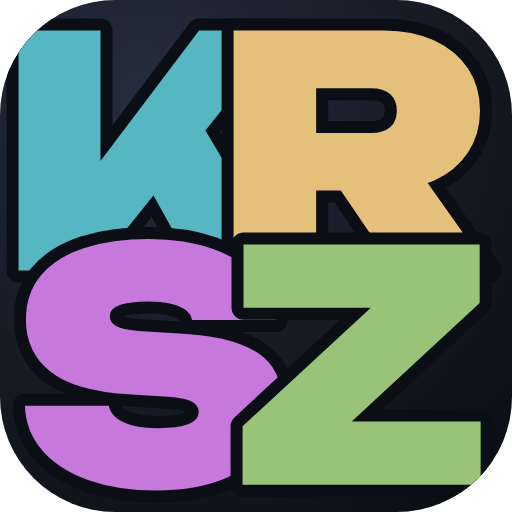
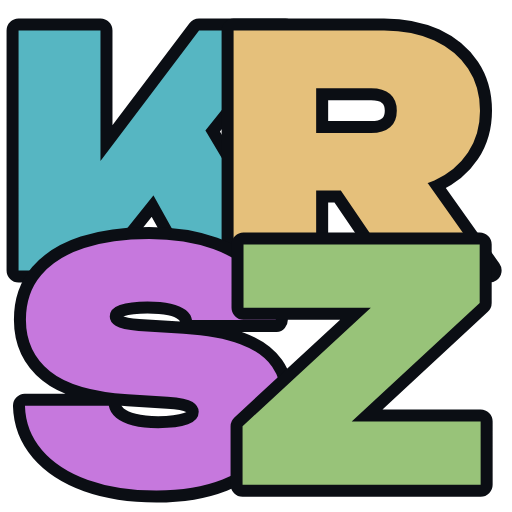
feat(landing): KRSZ mark on a transparent ground
Drop the squircle background and its clip from favicon.svg, KrszLogo and the
'any' PNG icons so the four letters sit directly on whatever hosts them; the
maskable and apple-touch icons keep their opaque full-bleed ground, as those
platforms require.

diff --git a/landing-worker/src/lib/components/chrome/KrszLogo.svelte b/landing-worker/src/lib/components/chrome/KrszLogo.svelte
@@ -3,9 +3,10 @@
 	 * The site mark, same artwork as static/favicon.svg: K / R / S / Z in
 	 * Unbounded Black, one per quadrant, each in its fixed brand color
 	 * (stores/theme.ts's KRSZ_LETTER_COLORS). The letters overlap and a keyline
-	 * in the badge color separates them (paint-order: stroke), so they read as
-	 * four interlocking plates rather than four floating glyphs. The glyphs are
-	 * baked to paths so the mark never depends on a webfont.
+	 * in the site's darkest tone separates them (paint-order: stroke), so they
+	 * read as four interlocking plates rather than four floating glyphs. No
+	 * background: the mark sits directly on whatever surface hosts it. The
+	 * glyphs are baked to paths so the mark never depends on a webfont.
 	 *
 	 * Inlined rather than an <img> so it inherits the page's rendering and
 	 * costs no extra request.
@@ -22,22 +23,7 @@
 	class="shrink-0 block"
 >
 	<title>{title}</title>
-	<defs>
-		<radialGradient id="krsz-bg" cx="28%" cy="18%" r="100%">
-			<stop offset="0" stop-color="#252c3d" />
-			<stop offset="1" stop-color="#0b0e14" />
-		</radialGradient>
-		<clipPath id="krsz-clip"><rect width="32" height="32" rx="7.2" /></clipPath>
-	</defs>
-
-	<rect width="32" height="32" rx="7.2" fill="url(#krsz-bg)" />
-	<g
-		clip-path="url(#krsz-clip)"
-		stroke="#0b0e14"
-		stroke-width="1.5"
-		stroke-linejoin="round"
-		paint-order="stroke"
-	>
+	<g stroke="#0b0e14" stroke-width="1.5" stroke-linejoin="round" paint-order="stroke">
 		<path fill="#56b6c2" d="M1.16 16.9V1.9H6.28V12.88L4.98 11.78L12.44 1.9H17.84L5.84 16.9ZM8.36 10 12.16 7.02 18.04 16.9H12.2Z" />
 		<path fill="#e5c07b" d="M18.16 8.32H23.2Q23.96 8.32 24.38 7.96Q24.8 7.6 24.8 6.92Q24.8 6.24 24.38 5.88Q23.96 5.52 23.2 5.52H17.44L19.76 3.2V16.9H14.6V1.9H24Q25.8 1.9 27.15 2.53Q28.5 3.16 29.25 4.28Q30 5.4 30 6.92Q30 8.4 29.25 9.53Q28.5 10.66 27.15 11.28Q25.8 11.9 24 11.9H18.16ZM19.92 9.88H25.62L30.6 16.9H24.7Z" />
 		<path fill="#c678dd" d="M1.56 25.36H6.8Q6.88 25.8 7.26 26.11Q7.64 26.42 8.3 26.59Q8.96 26.76 9.88 26.76Q11.08 26.76 11.75 26.52Q12.42 26.28 12.42 25.74Q12.42 25.38 12.04 25.13Q11.66 24.88 10.48 24.8L8 24.64Q4.62 24.42 3.12 23.2Q1.62 21.98 1.62 19.98Q1.62 18.3 2.58 17.18Q3.54 16.06 5.27 15.5Q7 14.94 9.32 14.94Q11.58 14.94 13.33 15.57Q15.08 16.2 16.11 17.34Q17.14 18.48 17.24 20H12Q11.94 19.64 11.61 19.38Q11.28 19.12 10.68 18.98Q10.08 18.84 9.22 18.84Q8.12 18.84 7.49 19.06Q6.86 19.28 6.86 19.78Q6.86 20.12 7.23 20.36Q7.6 20.6 8.66 20.68L11.46 20.86Q13.66 21 15.02 21.51Q16.38 22.02 17.01 22.92Q17.64 23.82 17.64 25.14Q17.64 26.8 16.66 28.04Q15.68 29.28 13.91 29.97Q12.14 30.66 9.78 30.66Q7.34 30.66 5.5 30Q3.66 29.34 2.63 28.14Q1.6 26.94 1.56 25.36Z" />
